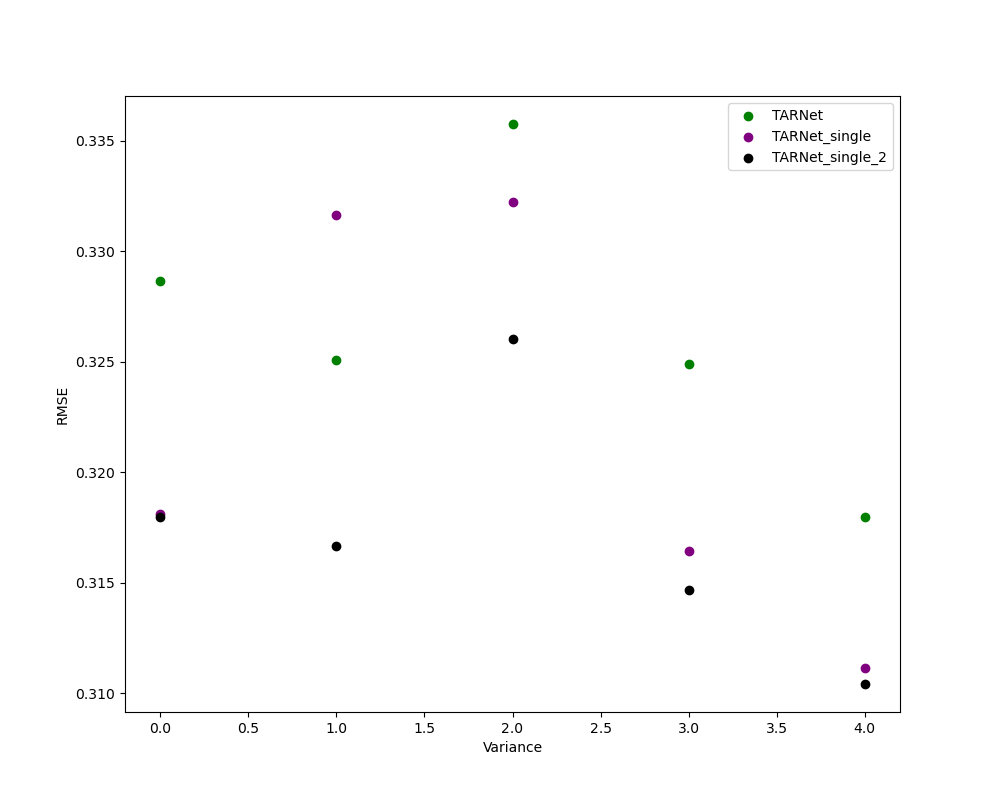
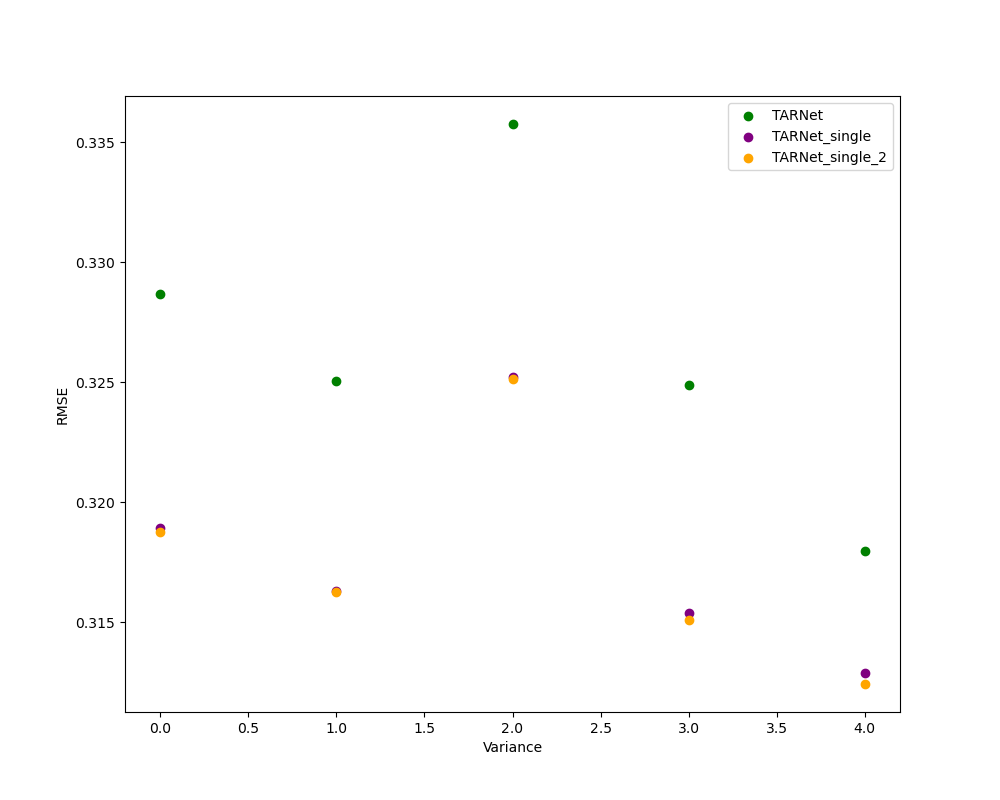
update tarnet_single and tarnet_single_2

diff --git a/plot.py b/plot.py
@@ -49,7 +49,7 @@ def IHDP_plot(setting="C", first_50=False, dir_path=None, forest=False):
     # plt.scatter(cate_var_out, TNet_out, color='red', label='TNet')
     plt.scatter(cate_var_out, TARNet_out, color='green', label='TARNet')
     plt.scatter(cate_var_out, TARNet_single_out, color='purple', label='TARNet_single')
-    plt.scatter(cate_var_out, TARNet_single_2_out, color='black', label='TARNet_single_2')
+    plt.scatter(cate_var_out, TARNet_single_2_out, color='orange', label='TARNet_single_2')
     # plt.scatter(cate_var_out, MLP_CATENet_out, color='black', label='MLP_CATENet_out')
     # plt.scatter(cate_var_out, CF_out, color='orange', label='CF')
     # plt.scatter(cate_var_out, TRF_out, color='blue', label='TRF')
@@ -69,13 +69,17 @@ def IHDP_plot(setting="C", first_50=False, dir_path=None, forest=False):
 
 # IHDP_plot(setting="D", first_50=False, dir_path='comparison_tarnet_single_2', forest=False)
 # IHDP_plot(setting="D", first_50=True, dir_path='comparison_tarnet_single_2', forest=False)
-# IHDP_plot(setting="C", first_50=False, dir_path='comparison', forest=False)
-# IHDP_plot(setting="C", first_50=True, dir_path='comparison', forest=False)
+IHDP_plot(setting="C", first_50=False, dir_path='comparison', forest=False)
+IHDP_plot(setting="C", first_50=True, dir_path='comparison', forest=False)
+IHDP_plot(setting="D", first_50=False, dir_path='comparison', forest=False)
+IHDP_plot(setting="D", first_50=True, dir_path='comparison', forest=False)
 # IHDP_plot(setting="D", first_50=False)
 # IHDP_plot(setting="D", first_50=True)
 
-def ACIC2016_plot(data_dir='results/experiments_benchmarking/acic2016/comparsion'):
+def ACIC2016_plot(data_dir='results/experiments_benchmarking/acic2016/comparsion', first_50=False):
     df = pd.read_csv(os.path.join(data_dir, 'results_False_2_4000.csv'))
+    if first_50:
+        df = df.sort_values(by='cate_var_out', ascending=True).head(50)
     cate_var_out = df['cate_var_out'].tolist()
     TARNet_out = df['TARNet_out'].tolist()
     TARNet_single_out = df['TARNet_single_out'].tolist()
@@ -86,19 +90,24 @@ def ACIC2016_plot(data_dir='results/experiments_benchmarking/acic2016/comparsion
     # scatter plots
     plt.scatter(cate_var_out, TARNet_out, color='green', label='TARNet')
     plt.scatter(cate_var_out, TARNet_single_out, color='purple', label='TARNet_single')
-    plt.scatter(cate_var_out, TARNet_single_2_out, color='black', label='TARNet_single_2')
+    plt.scatter(cate_var_out, TARNet_single_2_out, color='orange', label='TARNet_single_2')
 
     # labels
     plt.xlabel('Variance')
     plt.ylabel('RMSE')
     plt.legend()
 
-    if not os.path.exists(f"plots/ACIC_2016/comparison/"):
-        os.makedirs(f"plots/ACIC_2016/comparison/")
+    if first_50:
+        file_name = "ACIC_2016_first_50.png"
+    else:
+        file_name = "ACIC_2016.png"
+    if not os.path.exists("plots/ACIC_2016/comparison/"):
+        os.makedirs("plots/ACIC_2016/comparison/")
 
-    plt.savefig(f"plots/ACIC_2016/comparison/ACIC_2016.png")
+    plt.savefig(f"plots/ACIC_2016/comparison/{file_name}")
 
-# ACIC2016_plot()
+ACIC2016_plot()
+ACIC2016_plot(first_50=True)
 
 def twins_plot(data_dir='results/experiments_benchmarking/twins'):
     subset_list = ['500', '1000', '2000', '5000', 'None']
@@ -115,7 +124,7 @@ def twins_plot(data_dir='results/experiments_benchmarking/twins'):
         # scatter plots
         plt.scatter(range(5), TARNet_pehe, color='green', label='TARNet')
         plt.scatter(range(5), TARNet_single_pehe, color='purple', label='TARNet_single')
-        plt.scatter(range(5), TARNet_single_2_pehe, color='black', label='TARNet_single_2')
+        plt.scatter(range(5), TARNet_single_2_pehe, color='orange', label='TARNet_single_2')
 
         # labels
         plt.xlabel('Variance')

diff --git a/catenets/models/jax/tarnet_single.py b/catenets/models/jax/tarnet_single.py
@@ -304,17 +304,14 @@ def train_tarnet_single(
         # print("X: ", X.shape) # (100, 25)
         # print("y: ", y.shape) # (100, 1)
         # print("w: ", w.shape) # (100, 1)
-        X_concat_w_0 = jnp.concatenate((X, 1 - w), axis=1)
-        X_concat_w_1 = jnp.concatenate((X, w), axis=1)
-
-        reps_0 = predict_fun_repr(params[0], X_concat_w_0)
-        reps_1 = predict_fun_repr(params[0], X_concat_w_1)
+        # correct the error in my modification
+        X_concat_w = jnp.concatenate((X, w), axis=1)
+        reps = predict_fun_repr(params[0], X_concat_w)
 
         # pass down to two heads
-        loss_0 = loss_head(params[1], (reps_0, y, 1-w))
-        loss_1 = loss_head(params[1], (reps_1, y, w))
-        # loss_0 = loss_head(params[1], (reps, y, 1 - w))
-        # loss_1 = loss_head(params[1], (reps, y, w))
+        loss_0 = loss_head(params[1], (reps, y, 1-w))
+        loss_1 = loss_head(params[1], (reps, y, w))
+
 
         # regularization on representation
         weightsq_body = sum(

diff --git a/catenets/models/jax/tarnet_single_2.py b/catenets/models/jax/tarnet_single_2.py
@@ -324,16 +324,14 @@ def train_tarnet_single_2(
         # print("X: ", X.shape) # (100, 25)
         # print("y: ", y.shape) # (100, 1)
         # print("w: ", w.shape) # (100, 1)
-        reps_concat_w_0 = jnp.concatenate((reps, 1 - w), axis=-1)
-        reps_concat_w_1 = jnp.concatenate((reps, w), axis=-1)
+        reps_concat_w = jnp.concatenate((reps, w), axis=-1)
 
-        # get mmd
-        # TODO: check with defu, I think this is the same meaning as domain confusion, should abandon this
+        # get rid of mmd
         # disc = mmd2_lin(reps_1, w)
 
         # pass down to two heads
-        loss_0 = loss_head(params[1], (reps_concat_w_0, y, 1-w))
-        loss_1 = loss_head(params[1], (reps_concat_w_1, y, w))
+        loss_0 = loss_head(params[1], (reps_concat_w, y, 1-w))
+        loss_1 = loss_head(params[1], (reps_concat_w, y, w))
         # loss_0 = loss_head(params[1], (reps, y, 1 - w))
         # loss_1 = loss_head(params[1], (reps, y, w))
 

diff --git a/experiments/experiments_benchmarks_NeurIPS21/ihdp_experiments_catenets.py b/experiments/experiments_benchmarks_NeurIPS21/ihdp_experiments_catenets.py
@@ -16,7 +16,7 @@ from catenets.models.jax import RNET_NAME, T_NAME, TARNET_NAME, TARNET_SINGLE_NA
 from catenets.models.jax import TARNet_SINGLE_2_NAME, TARNet_single_2
 
 DATA_DIR = Path("catenets/datasets/data/")
-RESULT_DIR = Path("results/experiments_benchmarking/ihdp/comparsion/")
+RESULT_DIR = Path("results/experiments_benchmarking/ihdp/comparison/")
 SEP = "_"
 
 PARAMS_DEPTH = {"n_layers_r": 3, "n_layers_out": 2}

diff --git a/catenets/experiment_utils/base.py b/catenets/experiment_utils/base.py
@@ -29,7 +29,6 @@ from catenets.models.jax.transformation_utils import (
 
 SEP = "_"
 
-
 def eval_mse_model(
     inputs: jnp.ndarray,
     targets: jnp.ndarray,
